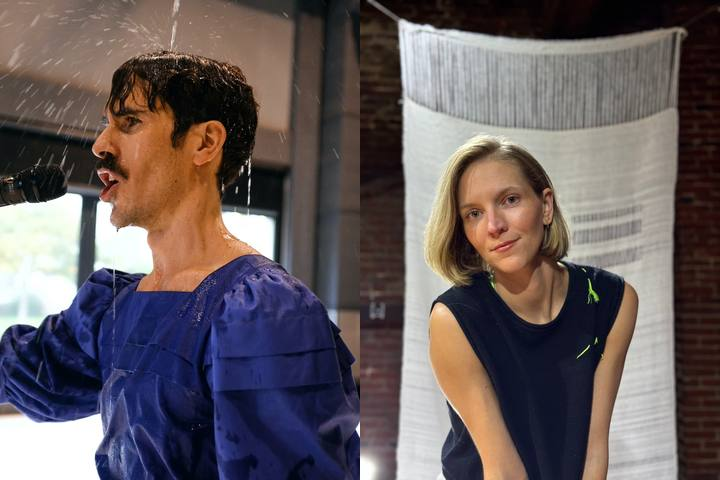
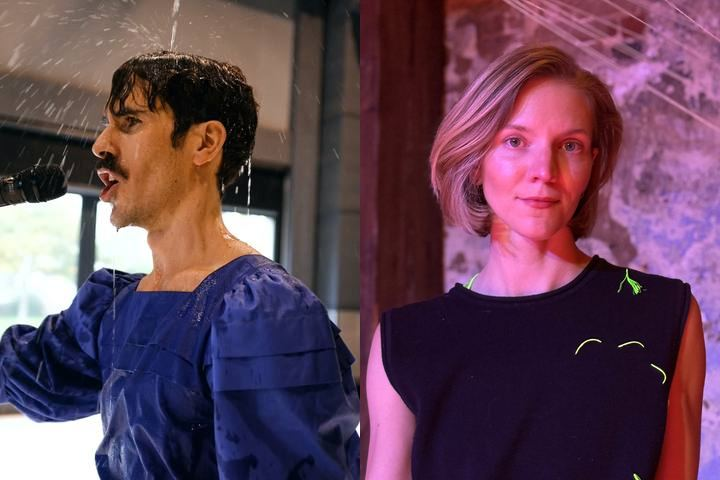
Eyes behind director contacts, new Katie photo, tighter WhatsApp spacing
Claude-Session: https://claude.ai/code/session_01H2ftG3Dzzghfab76PSMqR4

diff --git a/index.html b/index.html
@@ -166,7 +166,7 @@
   .walk{display:inline-block;margin-left:6px;font-size:12px;font-weight:500;color:var(--muted)}
   a.card.sosc{display:block;color:var(--ink);text-decoration:none;border-color:#d4442a;transition:transform .12s ease}
   a.card.sosc:active{transform:scale(.97)}
-  .callme{display:inline-block;margin-top:8px;font-size:13px;font-weight:700;color:#d4442a}
+  .callme{display:block;margin-top:8px;font-size:13px;font-weight:700;color:#d4442a}
   #splash{position:fixed;inset:0;z-index:100;background:var(--accent);display:flex;align-items:center;justify-content:center;transition:opacity .7s ease .1s}
   #splash .sp-in{text-align:center;animation:splashIn .5s ease both}
   #splash .sp-w{color:#fff;font-size:18px;font-weight:500;letter-spacing:.08em;text-transform:uppercase;opacity:.9;margin-bottom:10px}
@@ -224,6 +224,9 @@
   .venue .addr{font-size:14px;color:var(--muted);margin-top:6px}
   .phone{display:flex;align-items:center;justify-content:space-between;gap:10px;padding:8px 0;border-top:1px solid var(--line)}
   .phone:first-of-type{border-top:none}
+  .phone.eyes{position:relative;margin:0 -14px;padding:12px 14px;overflow:hidden}
+  .phone.eyes::before{content:"";position:absolute;inset:0;background:var(--eyes) center 45%/cover no-repeat;opacity:.55;-webkit-mask-image:linear-gradient(90deg,transparent 0%,rgba(0,0,0,.35) 30%,#000 75%);mask-image:linear-gradient(90deg,transparent 0%,rgba(0,0,0,.35) 30%,#000 75%)}
+  .phone.eyes>*{position:relative}
   .phone .num{font-size:18px;font-weight:700;letter-spacing:.02em}
   .phone a{font-size:13px;font-weight:700;color:var(--link);background:var(--link-soft);text-decoration:none;border:1px solid var(--link);border-radius:999px;padding:4px 11px;white-space:nowrap}
   .mapbox{overflow:auto;border:1px solid var(--line);border-radius:14px;background:#fff;-webkit-overflow-scrolling:touch}
@@ -856,10 +859,10 @@ const FACULTY = [["Abigail Gómez","Shenandoah University"],["Betsy Towns","UNC 
 
 function renderGroup(){
   const wa = WHATSAPP_GROUP
-    ? `<a class="alink" href="${WHATSAPP_GROUP}" target="_blank" rel="noopener" style="font-size:15px;padding:8px 16px">Join the group WhatsApp ↗</a>`
+    ? `<a class="alink" href="${WHATSAPP_GROUP}" target="_blank" rel="noopener" style="font-size:15px;padding:8px 16px;margin:0">Join the group WhatsApp ↗</a>`
     : `<span class="who">The invite link will be posted here before the trip.</span>`;
   return `<h2>💬 Group WhatsApp</h2>
-    <div class="card">Everyday updates, meeting points and last-minute changes go here.<br><br>${wa}</div>
+    <div class="card">Everyday updates, meeting points and last-minute changes go here.<div style="margin-top:10px">${wa}</div></div>
     <h2>👋 Who's coming</h2>
     <div class="card">
       ${GROUP_PEOPLE.map(g=>`<b>${g.uni}</b>${g.ext?' <span class="tag ext">Also in the extension</span>':''}<br>
@@ -893,8 +896,8 @@ function renderInfo(){
     <a class="card sosc" href="tel:112"><div class="big">112</div>Police, ambulance and fire anywhere in Spain. Calls work without a SIM card.<span class="callme">📞 Tap to call</span></a>
     <h2>📞 Contacts</h2>
     <div class="card">
-      <div class="phone"><div><b>Albert Quesada</b><br><span class="num">+34 689 130 137</span></div><a href="https://wa.me/34689130137" target="_blank" rel="noopener">WhatsApp</a></div>
-      <div class="phone"><div><b>Katie Vickers</b><br><span class="num">+34 696 504 487</span></div><a href="https://wa.me/34696504487" target="_blank" rel="noopener">WhatsApp</a></div>
+      <div class="phone eyes" style="--eyes:url(img/eyes-albert.jpg)"><div><b>Albert Quesada</b><br><span class="num">+34 689 130 137</span></div><a href="https://wa.me/34689130137" target="_blank" rel="noopener">WhatsApp</a></div>
+      <div class="phone eyes" style="--eyes:url(img/eyes-katie.jpg)"><div><b>Katie Vickers</b><br><span class="num">+34 696 504 487</span></div><a href="https://wa.me/34696504487" target="_blank" rel="noopener">WhatsApp</a></div>
       <div class="phone"><div><b>Ale</b> · Program assistant<br><span class="num">+1 (954) 224-3117</span><br><span class="who">WhatsApp only</span></div><a href="https://wa.me/19542243117" target="_blank" rel="noopener">WhatsApp</a></div>
       <span class="who">Albert and Katie are the program directors. Call or message any time during the program.</span>
     </div>

diff --git a/sw.js b/sw.js
@@ -1,6 +1,6 @@
 // Offline support: the page is fetched fresh when online (so updates arrive), photos come from the cache
-const V="inter-20261119115647";
-const FILES=["./", "index.html", "manifest.webmanifest", "icon-180.png", "icon-192.png", "icon-512.png", "img/a-albert-quesada-katie-vickers.jpg", "img/a-catalina-girona.jpg", "img/a-darryl-eisden.jpg", "img/a-joaquin-jara.jpg", "img/a-los-informalls.jpg", "img/a-maria-sellares.jpg", "img/a-nuria-andorra.jpg", "img/a-nuria-guiu.jpg", "img/a-taller-estampa.jpg", "img/logo.png", "img/metro-map.jpg", "img/sala-reflexio.jpg", "img/v-batllo.jpg", "img/v-brujas.jpg", "img/v-caldera.jpg", "img/v-filmo.jpg", "img/v-joaquin.jpg", "img/v-lliure.jpg", "img/v-macba.jpg", "img/v-mercat.jpg", "img/v-pedrera.jpg", "img/v-piconera.jpg", "img/v-raro.jpg", "img/v-santam.jpg", "img/v-servei.jpg", "img/v-tapies.jpg", "img/v-visiva.jpg", "img/v-yugo.jpg"];
+const V="inter-20261119121135";
+const FILES=["./", "index.html", "manifest.webmanifest", "icon-180.png", "icon-192.png", "icon-512.png", "img/a-albert-quesada-katie-vickers.jpg", "img/a-catalina-girona.jpg", "img/a-darryl-eisden.jpg", "img/a-joaquin-jara.jpg", "img/a-los-informalls.jpg", "img/a-maria-sellares.jpg", "img/a-nuria-andorra.jpg", "img/a-nuria-guiu.jpg", "img/a-taller-estampa.jpg", "img/eyes-albert.jpg", "img/eyes-katie.jpg", "img/logo.png", "img/metro-map.jpg", "img/sala-reflexio.jpg", "img/v-batllo.jpg", "img/v-brujas.jpg", "img/v-caldera.jpg", "img/v-filmo.jpg", "img/v-joaquin.jpg", "img/v-lliure.jpg", "img/v-macba.jpg", "img/v-mercat.jpg", "img/v-pedrera.jpg", "img/v-piconera.jpg", "img/v-raro.jpg", "img/v-santam.jpg", "img/v-servei.jpg", "img/v-tapies.jpg", "img/v-visiva.jpg", "img/v-yugo.jpg"];
 self.addEventListener("install",e=>{ e.waitUntil(caches.open(V).then(c=>c.addAll(FILES)).then(()=>self.skipWaiting())); });
 self.addEventListener("activate",e=>{ e.waitUntil(caches.keys().then(ks=>Promise.all(ks.filter(k=>k!==V).map(k=>caches.delete(k)))).then(()=>self.clients.claim())); });
 self.addEventListener("fetch",e=>{
